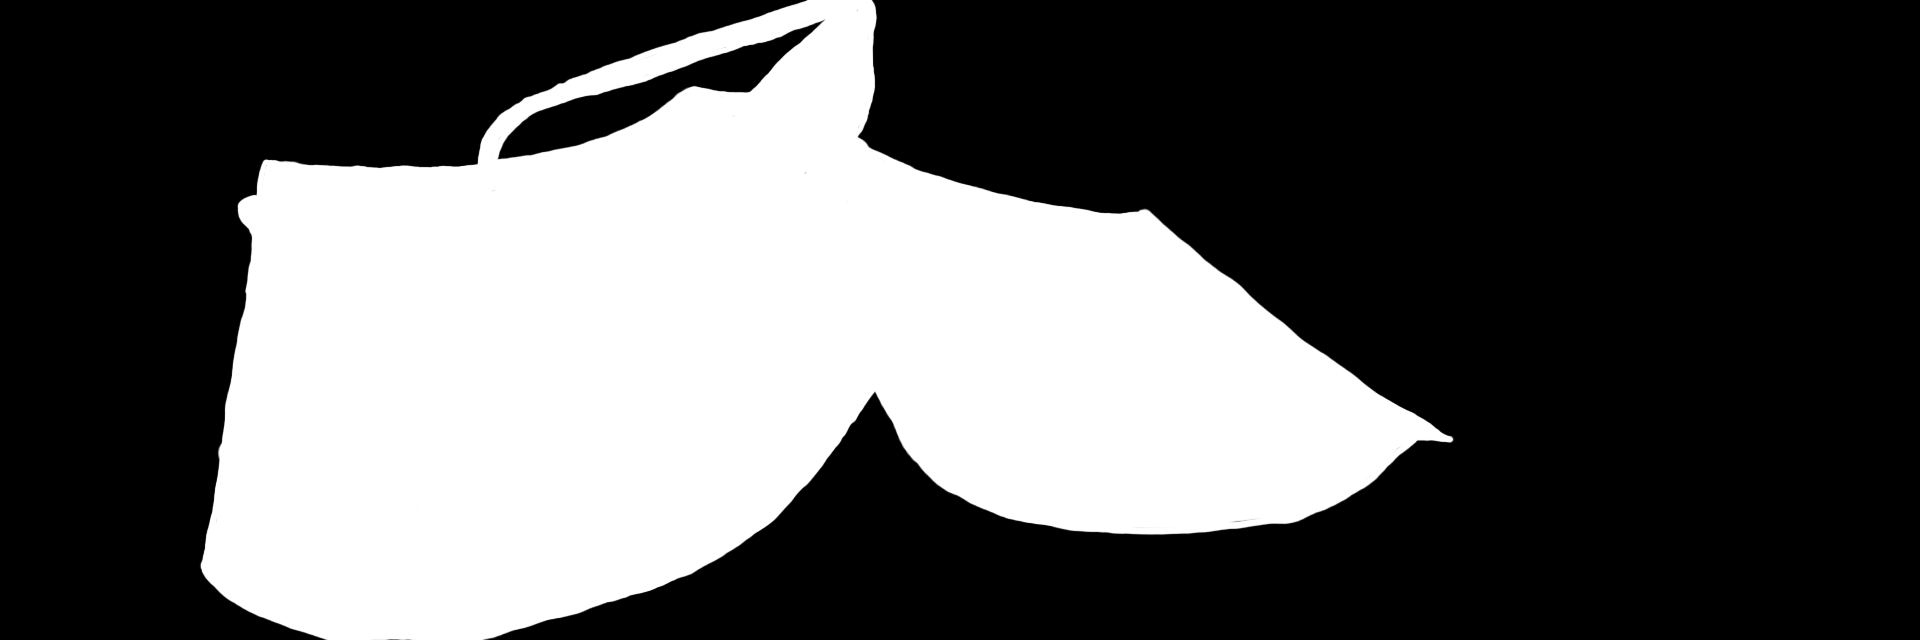
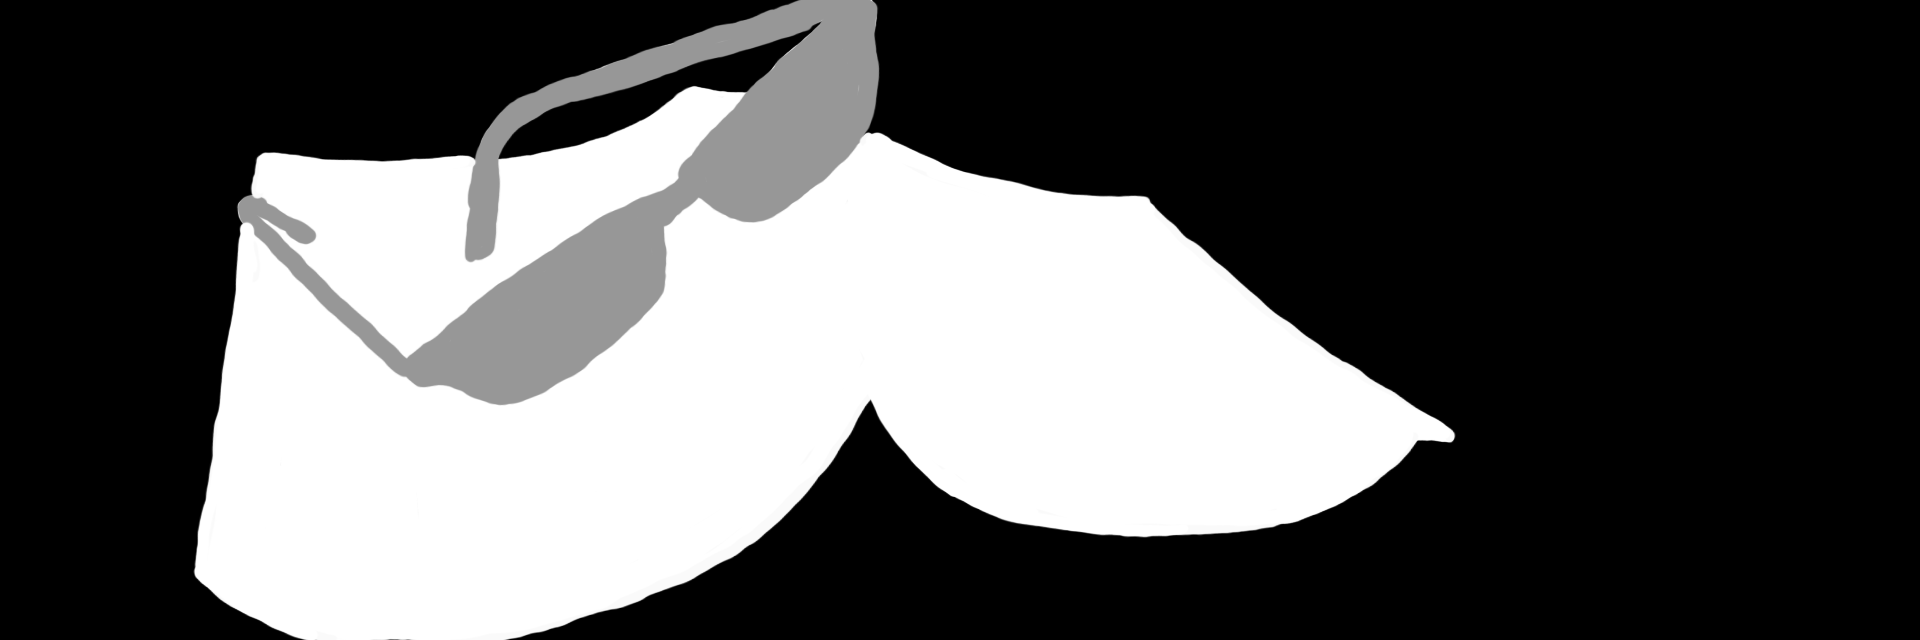
up

diff --git a/sketch.js b/sketch.js
@@ -3,9 +3,9 @@ let maskImg = null;
 let renderCounter = 0;
 
 // change these three lines as appropiate
-let sourceFile = "input_3.jpg";
-let maskFile = "mask_3.png";
-let outputFile = "output_3.png";
+let sourceFile = "input_1.jpg";
+let maskFile = "mask_1.png";
+let outputFile = "output_1.png";
 
 function preload() {
   sourceImg = loadImage(sourceFile);
@@ -39,12 +39,16 @@ function draw () {
     fill(pix);
     stroke(pix);
 
-    if(mask[0] > 120) {
-    drawStar(x, y, r);
+    if(mask[0] < 120) {
+      let pointSize = 30;
+          line(x, y, x + pointSize, y+40);//black
     }
+    else if(mask[0] >= 120 && mask[0] < 250) { //Grey
+      let pointSize =20;
+          ellipse(x, y, pointSize, pointSize);
+   }
     else {
-  let pointSize = 60;
-      line(x, y, x + pointSize, y+40);
+      drawStar(x, y, r); //white
     }
   }
 
@@ -60,7 +64,7 @@ function draw () {
 function drawStar(xPos, yPos, size) {
   push();
   translate(xPos, yPos);
-  strokeWeight(4);
+  strokeWeight(1);
   let half = size / 2.5;
   let diagHalf = half * 0.75;
 
